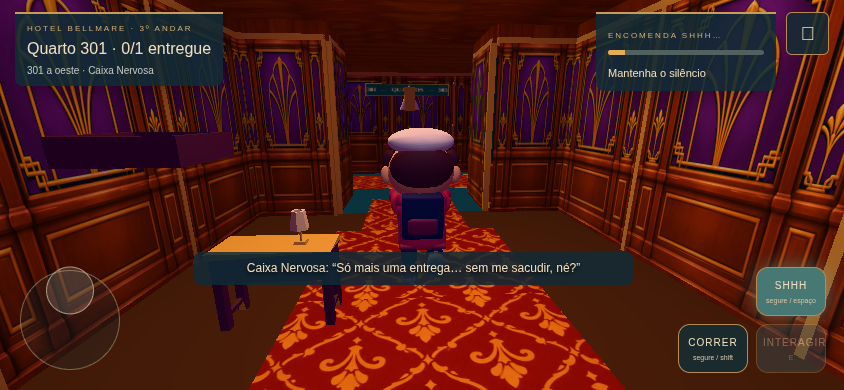
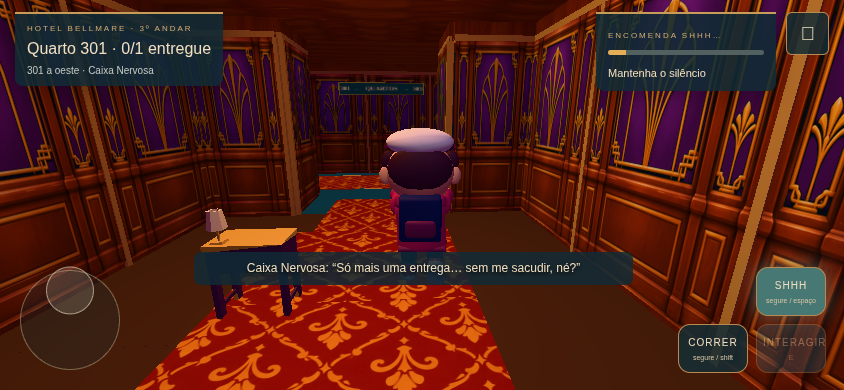
fix: align touch movement with camera view axes

diff --git a/tests/input-camera.test.ts b/tests/input-camera.test.ts
@@ -1,0 +1,144 @@
+import { describe, expect, it } from 'vitest';
+import { Entity, Vec3 } from 'playcanvas';
+import { FollowCamera, type PlanarCameraBasis } from '../src/game/camera';
+import { Input } from '../src/game/input';
+import { Player } from '../src/game/player';
+
+type Direction = {
+  name: string;
+  stick: { x: number; y: number };
+  keys: string[];
+  right: number;
+  forward: number;
+};
+
+const diagonally = Math.SQRT1_2;
+const directions: Direction[] = [
+  { name: 'cima', stick: { x: 0, y: -1 }, keys: ['KeyW'], right: 0, forward: 1 },
+  { name: 'baixo', stick: { x: 0, y: 1 }, keys: ['KeyS'], right: 0, forward: -1 },
+  { name: 'direita', stick: { x: 1, y: 0 }, keys: ['KeyD'], right: 1, forward: 0 },
+  { name: 'esquerda', stick: { x: -1, y: 0 }, keys: ['KeyA'], right: -1, forward: 0 },
+  {
+    name: 'diagonal cima-direita',
+    stick: { x: diagonally, y: -diagonally },
+    keys: ['KeyW', 'KeyD'],
+    right: diagonally,
+    forward: diagonally,
+  },
+  {
+    name: 'diagonal cima-esquerda',
+    stick: { x: -diagonally, y: -diagonally },
+    keys: ['KeyW', 'KeyA'],
+    right: -diagonally,
+    forward: diagonally,
+  },
+  {
+    name: 'diagonal baixo-direita',
+    stick: { x: diagonally, y: diagonally },
+    keys: ['KeyS', 'KeyD'],
+    right: diagonally,
+    forward: -diagonally,
+  },
+  {
+    name: 'diagonal baixo-esquerda',
+    stick: { x: -diagonally, y: diagonally },
+    keys: ['KeyS', 'KeyA'],
+    right: -diagonally,
+    forward: -diagonally,
+  },
+];
+
+function inputFor(stick: Direction['stick'], keys: string[] = [], run = false, shush = false) {
+  const input = Object.create(Input.prototype) as Input;
+  input.keys = new Set(keys);
+  input.stick = { ...stick };
+  input.run = run;
+  input.shush = shush;
+  return input;
+}
+
+function cameraAt(yaw: number) {
+  const camera = new FollowCamera(new Entity('camera projection test'));
+  camera.tick(0, { x: 0, z: -6 }, yaw, 0.24);
+  return camera;
+}
+
+function projected(camera: Entity, point: { x: number; z: number }) {
+  const view = camera.getWorldTransform().clone().invert();
+  const origin = view.transformPoint(new Vec3(point.x, 1, point.z));
+  return (delta: { x: number; z: number }) => {
+    const target = view.transformPoint(new Vec3(point.x + delta.x, 1, point.z + delta.z));
+    return {
+      screenX: target.x / -target.z - origin.x / -origin.z,
+      forwardDepth: origin.z - target.z,
+    };
+  };
+}
+
+describe('direção do joystick e WASD relativa à câmera', () => {
+  for (const yaw of [0, Math.PI / 2, Math.PI, (Math.PI * 3) / 2]) {
+    it(`move nos oito sentidos e projeta para o lado indicado a ${((yaw * 180) / Math.PI).toFixed(0)}°`, () => {
+      const follow = cameraAt(yaw),
+        basis: PlanarCameraBasis = follow.movementBasis(),
+        screen = projected(follow.entity, { x: 0, z: -6 });
+
+      for (const direction of directions) {
+        const player = new Player();
+        player.position = { x: 0, z: -6 };
+        const input = inputFor(direction.stick);
+        player.tick(0.1, input, false, basis);
+        const delta = {
+          x: player.position.x,
+          z: player.position.z + 6,
+        };
+        expect(Math.hypot(delta.x, delta.z), direction.name).toBeGreaterThan(0.2);
+        expect(delta.x * basis.right.x + delta.z * basis.right.z, direction.name).toBeCloseTo(
+          direction.right * 0.25,
+          2,
+        );
+        expect(delta.x * basis.forward.x + delta.z * basis.forward.z, direction.name).toBeCloseTo(
+          direction.forward * 0.25,
+          2,
+        );
+
+        // Camera-space perspective projection: right changes screen X; forward
+        // changes camera depth. These checks catch a mirrored view mapping.
+        const pixelDirection = screen(delta);
+        if (direction.right > 0) expect(pixelDirection.screenX, direction.name).toBeGreaterThan(0);
+        if (direction.right < 0) expect(pixelDirection.screenX, direction.name).toBeLessThan(0);
+        if (direction.right === 0)
+          expect(Math.abs(pixelDirection.screenX), direction.name).toBeLessThan(1e-5);
+        if (direction.forward > 0)
+          expect(pixelDirection.forwardDepth, direction.name).toBeGreaterThan(0);
+        if (direction.forward < 0)
+          expect(pixelDirection.forwardDepth, direction.name).toBeLessThan(0);
+        if (direction.forward === 0)
+          expect(Math.abs(pixelDirection.forwardDepth), direction.name).toBeLessThan(1e-5);
+
+        const keyboard = inputFor({ x: 0, y: 0 }, direction.keys);
+        expect(keyboard.movement(basis), `${direction.name} teclado`).toMatchObject({
+          moving: true,
+          x: expect.closeTo(
+            basis.right.x * direction.right + basis.forward.x * direction.forward,
+            4,
+          ),
+          z: expect.closeTo(
+            basis.right.z * direction.right + basis.forward.z * direction.forward,
+            4,
+          ),
+        });
+      }
+    });
+  }
+
+  it('mantém a direção ao segurar corrida ou SHHH junto ao joystick', () => {
+    const camera = cameraAt(Math.PI / 2),
+      basis = camera.movementBasis(),
+      stick = { x: 1, y: -1 };
+    const normal = inputFor(stick).movement(basis),
+      combined = inputFor(stick, [], true, true);
+    expect(combined.running).toBe(true);
+    expect(combined.quiet).toBe(true);
+    expect(combined.movement(basis)).toEqual(normal);
+  });
+});

diff --git a/tests/browser/marco1.spec.ts b/tests/browser/marco1.spec.ts
@@ -67,13 +67,31 @@ test('toque emulado permite joystick + SHHH sem girar câmera', async ({ browser
   await page.locator('#quality').selectOption('low');
   await page.getByTestId('start').tap();
   await expect.poll(async () => (await snap(page)).time).toBeGreaterThan(0.1);
-  await page.getByTestId('interact').tap();
-  await expect.poll(async () => (await snap(page)).held).toBe(true);
   const session = await context.newCDPSession(page),
     j = (await page.getByTestId('joystick').boundingBox())!,
-    b = (await page.getByTestId('shush').boundingBox())!;
-  const stick = { x: j.x + j.width / 2, y: j.y + j.height / 2 - 35, id: 1 },
+    b = (await page.getByTestId('shush').boundingBox())!,
+    center = { x: j.x + j.width / 2, y: j.y + j.height / 2 },
     shush = { x: b.x + b.width / 2, y: b.y + b.height / 2, id: 2 };
+  const rightStart = await snap(page),
+    stickRight = { ...center, id: 1 };
+  await session.send('Input.dispatchTouchEvent', { type: 'touchStart', touchPoints: [stickRight] });
+  await session.send('Input.dispatchTouchEvent', {
+    type: 'touchMove',
+    touchPoints: [{ ...stickRight, x: center.x + 34 }],
+  });
+  await session.send('Input.dispatchTouchEvent', {
+    type: 'touchStart',
+    touchPoints: [{ ...stickRight, x: center.x + 34 }, shush],
+  });
+  await expect.poll(async () => (await snap(page)).input.quiet).toBe(true);
+  await expect
+    .poll(async () => (await snap(page)).player.x)
+    .toBeLessThan(rightStart.player.x - 0.15);
+  await session.send('Input.dispatchTouchEvent', { type: 'touchEnd', touchPoints: [] });
+  await expect.poll(async () => (await snap(page)).input.quiet).toBe(false);
+  await page.getByTestId('interact').tap();
+  await expect.poll(async () => (await snap(page)).held).toBe(true);
+  const stick = { x: center.x, y: center.y - 35, id: 1 };
   const initial = await snap(page);
   await session.send('Input.dispatchTouchEvent', { type: 'touchStart', touchPoints: [stick] });
   await session.send('Input.dispatchTouchEvent', {

diff --git a/src/game/input.ts b/src/game/input.ts
@@ -91,15 +91,18 @@ export class Input {
   get running() {
     return this.run || this.keys.has('ShiftLeft') || this.keys.has('ShiftRight');
   }
-  movement() {
+  movement(basis: PlanarCameraBasis) {
     let x = (this.keys.has('KeyD') ? 1 : 0) - (this.keys.has('KeyA') ? 1 : 0) + this.stick.x;
     let y = (this.keys.has('KeyW') ? 1 : 0) - (this.keys.has('KeyS') ? 1 : 0) - this.stick.y;
     const n = Math.max(1, Math.hypot(x, y));
     x /= n;
     y /= n;
+    const worldX = basis.right.x * x + basis.forward.x * y;
+    const worldZ = basis.right.z * x + basis.forward.z * y;
+    const worldLength = Math.hypot(worldX, worldZ) || 1;
     return {
-      x: x * Math.cos(this.yaw) + y * Math.sin(this.yaw),
-      z: -x * Math.sin(this.yaw) + y * Math.cos(this.yaw),
+      x: worldX / worldLength,
+      z: worldZ / worldLength,
       moving: Math.hypot(x, y) > 0.1,
     };
   }
@@ -115,3 +118,4 @@ export class Input {
     document.querySelector<HTMLElement>('#knob')!.style.transform = '';
   }
 }
+import type { PlanarCameraBasis } from './camera';

diff --git a/src/game/camera.ts b/src/game/camera.ts
@@ -1,6 +1,7 @@
 import { Entity, Vec3 } from 'playcanvas';
 import { walkable, lineClear } from './level';
 import type { Point } from './config';
+export type PlanarCameraBasis = { right: Point; forward: Point };
 export class FollowCamera {
   entity: Entity;
   position = new Vec3();
@@ -9,6 +10,15 @@ export class FollowCamera {
   avatarOpacity = 1;
   constructor(entity: Entity) {
     this.entity = entity;
+  }
+  /** Camera-local screen axes projected onto the hotel floor. */
+  movementBasis(): PlanarCameraBasis {
+    const project = (axis: Vec3): Point => {
+      const length = Math.hypot(axis.x, axis.z);
+      if (length < 1e-6) return { x: 0, z: 0 };
+      return { x: axis.x / length, z: axis.z / length };
+    };
+    return { right: project(this.entity.right), forward: project(this.entity.forward) };
   }
   tick(dt: number, p: Point, yaw: number, pitch: number) {
     const target = new Vec3(p.x, 1.0, p.z);

diff --git a/src/game/runtime.ts b/src/game/runtime.ts
@@ -248,6 +248,7 @@ export function runGame(app: AppBase, canvas: HTMLCanvasElement, assets: GameAss
     follow.initialized = false;
     input.yaw = 0;
     input.pitch = 0.24;
+    follow.tick(0, player.position, input.yaw, input.pitch);
     audio.unlock();
     ui.text('caption', '');
     ui.text('noise', '');
@@ -315,7 +316,7 @@ export function runGame(app: AppBase, canvas: HTMLCanvasElement, assets: GameAss
       g.time += dt;
       bumpCooldown -= dt;
       events = events.filter((e) => g.time - e.timestamp <= e.ttl);
-      const collided = player.tick(dt, input, !!g.hidden);
+      const collided = player.tick(dt, input, !!g.hidden, follow.movementBasis());
       if (
         collided &&
         bumpCooldown <= 0 &&

diff --git a/src/game/player.ts b/src/game/player.ts
@@ -1,12 +1,13 @@
 import { config, type Point } from './config';
 import { move, layout } from './level';
 import type { Input } from './input';
+import type { PlanarCameraBasis } from './camera';
 export class Player {
   position: Point = { x: layout.spawns.nico[0], z: layout.spawns.nico[2] };
   heading = 0;
   moving = false;
-  tick(dt: number, input: Input, hidden: boolean) {
-    const m = input.movement();
+  tick(dt: number, input: Input, hidden: boolean, basis: PlanarCameraBasis) {
+    const m = input.movement(basis);
     this.moving = m.moving && !hidden;
     if (!this.moving) return false;
     const speed = input.quiet ? config.shush : input.running ? config.run : config.walk;
